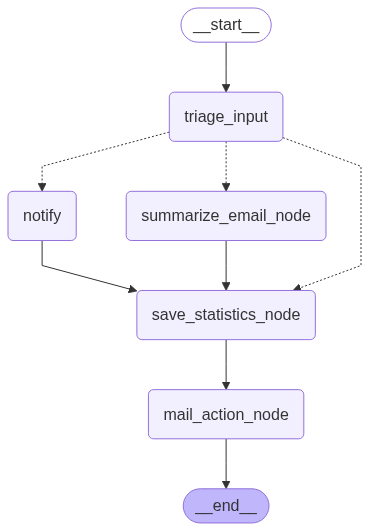
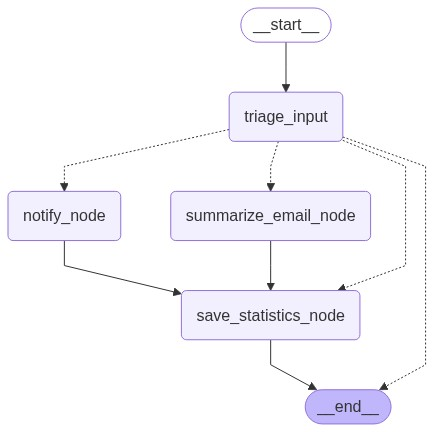
updated notify function

diff --git a/graph_processor.py b/graph_processor.py
@@ -8,6 +8,7 @@ from config import get_config
 from langchain_core.messages import ToolMessage
 from triage import triage_input
 from summarize import summarize_email
+from notify import notify_user
 from schemas import State
 from langchain_openai import ChatOpenAI
 from langchain_core.pydantic_v1 import BaseModel, Field
@@ -33,6 +34,10 @@ def summarize_email_node(state: State, config: dict, store: SqliteSaver):
     print("\n\n\n>>>>> summarize_email_node", state)
     return summarize_email(state, config, store)
 
+def notify_node(state: State, config: dict, store: SqliteSaver):
+    print("\n\n\n>>>>> notify_node", state)
+    return notify_user(state, config, store)
+
 def route_after_triage(
     state: State,
 ) -> Literal["summarize_email_node", "save_statistics_node", "notify_node", END]:
@@ -49,10 +54,6 @@ def route_after_triage(
 def save_statistics_node(state: State):
     """Save statistics about the email."""
     return {"messages": [HumanMessage(content="Statistics saved.")]}
-
-def notify_node(state: State):
-    """Notify the user about the email."""
-    return {"messages": [HumanMessage(content="User notified.")]}
 
 def route_after_summarize(state: State) -> Literal["save_statistics_node", END]:
     """Route after summarization."""
@@ -103,13 +104,7 @@ def bad_tool_name(state: State):
         ]
     }
 
-def notify(state: State):
-    print("\n\n\n>>>>> notify", state)
-    pass
 
-def mail_action_node(state: State):
-    print("\n\n\n>>>>> mail_action_node", state)
-    pass
 
 # Create the store first
 sqlite_conn = sqlite3.connect("checkpoints.sqlite", check_same_thread=False)
@@ -121,8 +116,8 @@ graph_builder = StateGraph(State, config_schema=ConfigSchema)
 # Add all nodes with their required parameters
 graph_builder.add_node("triage_input", lambda state, config: triage_input(state, config, store))
 graph_builder.add_node("summarize_email_node", lambda state, config: summarize_email_node(state, config, store))
+graph_builder.add_node("notify_node", lambda state, config: notify_node(state, config, store))
 graph_builder.add_node("save_statistics_node", save_statistics_node)
-graph_builder.add_node("notify_node", notify_node)
 
 # Set the entry point
 graph_builder.set_entry_point("triage_input")

diff --git a/notify.py b/notify.py
@@ -1,0 +1,46 @@
+from langchain_core.runnables import RunnableConfig
+from langchain_openai import ChatOpenAI
+from langchain_core.messages import ToolMessage
+from langchain_core.pydantic_v1 import BaseModel, Field
+from langgraph.checkpoint.sqlite import SqliteSaver
+from schemas import State
+from config import get_config
+
+class NotificationMessage(BaseModel):
+    message: str = Field(description="Notification message for the user")
+    suggestion: str = Field(description="Suggested action for the user")
+    sent: bool = Field(description="Whether this notification was sent to the user", default=False)
+
+def notify_user(state: State, config: RunnableConfig, store: SqliteSaver):
+    """Generate a notification message for the user and record it in the store."""
+    prompt_config = get_config(config)
+    email = state["email"]
+    message = (
+        f"Attention required: You received an email from {email['from_email']} with subject '{email['subject']}'. "
+        f"The assistant is unsure how you should react. Please review the email and decide on the appropriate action."
+    )
+    suggestion = "Please check the email and decide if you want to reply, ignore, or take another action."
+    notification = NotificationMessage(message=message, suggestion=suggestion, sent=False)
+
+    # Save to checkpoint store in a new namespace
+    write_config = {"configurable": {"thread_id": state["email"]["id"], "checkpoint_ns": "email_notifications"}}
+    checkpoint = {
+        "v": 2,
+        "ts": email["send_time"],
+        "id": email["id"]
+    }
+   
+    store.put(
+            write_config,
+            checkpoint,
+            notification.dict(),
+            {email["id"]: notification.dict()}
+        )
+
+    return {
+        "notification": notification,
+        "messages": [ToolMessage(
+            content=message,
+            tool_call_id="notify"
+        )]
+    } 

diff --git a/mail_ingest_single.py b/mail_ingest_single.py
@@ -43,8 +43,8 @@ def parse_date(date_str):
 # This script is used to ingest emails from a given email address for a given period of time.
 # period is defining in days
 def main():
-    result = graph_processor.invoke({"email": email_summarize}, config={"callbacks": [langfuse_handler]})
-    #result = graph_processor.invoke({"email": email_notify}, config={"callbacks": [langfuse_handler]})
+    #result = graph_processor.invoke({"email": email_summarize}, config={"callbacks": [langfuse_handler]})
+    result = graph_processor.invoke({"email": email_notify}, config={"callbacks": [langfuse_handler]})
         
 
         

diff --git a/summarize.py b/summarize.py
@@ -41,7 +41,7 @@ Subject: {subject}
 
 def summarize_email(state: State, config: RunnableConfig, store: SqliteSaver):
     """Summarize the email content using GPT-4."""
-    model = config["configurable"].get("model", "gpt-4")
+    model = config["configurable"].get("model", "gpt-4o-mini")
     llm = ChatOpenAI(model=model, temperature=0)
     
     prompt_config = get_config(config)

diff --git a/README.md b/README.md
@@ -1,9 +1,11 @@
 ## Tasks
 - [x] to create an script which is pushing 1 mail for notify or summarization.
 - [x] develop summarization function using gpt4o-mini
-- [ ] store summarization reulst in store DB 
-- [ ] develop notification fuction. 
-- [ ] store notification result into store DB
-- [ ] defein notification UI - telegram or web, define tasks on this.
+- [x] store summarization reulst in store DB 
+- [x] develop notification fuction. 
+- [x] store notification result into store DB
+- [ ] defein notification functionality, take data from DB, update trigger. 
+- [ ] defeine notificatio medai telegram or web
 - [ ] working on reflection graph
 - [ ] working on actions wiht mails, functional library, check in case it is possible to be done in bulk. 
+- [ ] add unit tests
